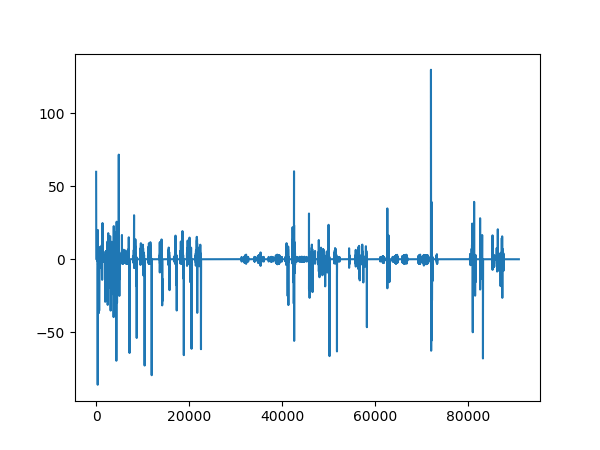
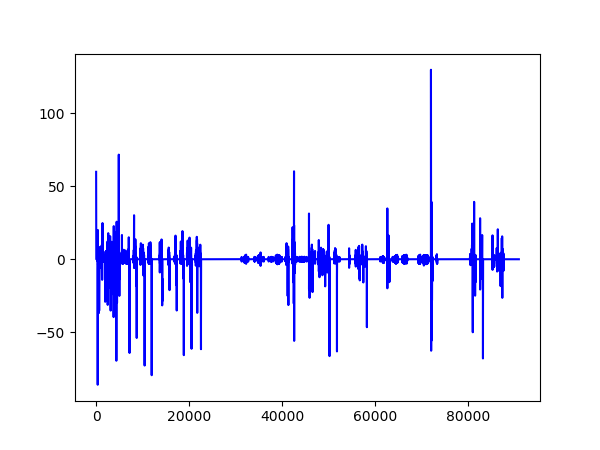
melhorado código para gerar graficos

Changed region(s): [[0.15, 0.1556, 0.87, 0.84]]

diff --git a/db-serial.py b/db-serial.py
@@ -18,17 +18,9 @@ def data2bytes(rpm, spd, brk):
 	return b
 
 
-def plotVar(x1,y1, **kwargs):
-	dpi = kwargs.get('dpi', None)
-	name = kwargs.get('name', None)
-	x2 = kwargs.get('x2', None)
-	y2 = kwargs.get('y2', None)
-	trace2 = kwargs.get('trace2', None)
-
-	if(x2 == None and y2 == None):
-		plt.plot(x1,y1)
-	else:
-		plt.plot(x1,y1, x2,y2,trace2)
+def plotVar(name, dpi, *argv):
+	for x, y, trace in argv:
+		plt.plot(x, y, trace)
 
 	plt.savefig(('./figs/'+name), dpi=dpi)
 	plt.cla()
@@ -154,7 +146,7 @@ def main():
 
 				name = log_name[:len(log_name)-3]+'-'+i+'.png'
 				print("Saving %s" %(name))
-				x1 = range(0,len(batch[i]))
+				x1 = range(0, len(batch[i]))
 				y1 = smooth(batch[i], 31)
 
 				if(i == "rpm"):
@@ -162,10 +154,13 @@ def main():
 					y2 = outputx[i]
 					trace2 = 'r--'
 
-					plotVar(x1, y1, x2=x2, y2=y2, trace2=trace2, name=name, dpi=dpi)
+
+					plotVar(name, dpi, (x1, y1, 'b'), (x2, y2, 'r'), (x2, [0]*len(x2), 'r--'), \
+					 (x2, [max_value/3]*len(x2), 'r--'), (x2, [2*max_value/3]*len(x2), 'r--'), \
+					  (x2, [max_value]*len(x2), 'r--'))
 
 				else:
-					plotVar(x1, y1, name=name, dpi=dpi)
+					plotVar(name, dpi, (x1, y1, 'b'))
 
 			var_names = ["rpm_rate", "brk_rate"]
 			rates= {"rpm_rate": rpm_rate, "brk_rate": brk_rate}
@@ -175,10 +170,10 @@ def main():
 				x = range(0, len(y))
 				name = log_name[:len(log_name)-3]+'-'+i+'.png'
 				print("Saving %s" %(name))
-				plotVar(x, y, name, dpi)
+				plotVar(name, dpi, (x, y, 'b'))
 
 		_index += 1
-		time.sleep(10)
+		time.sleep(5)
 
 	return 0
 
